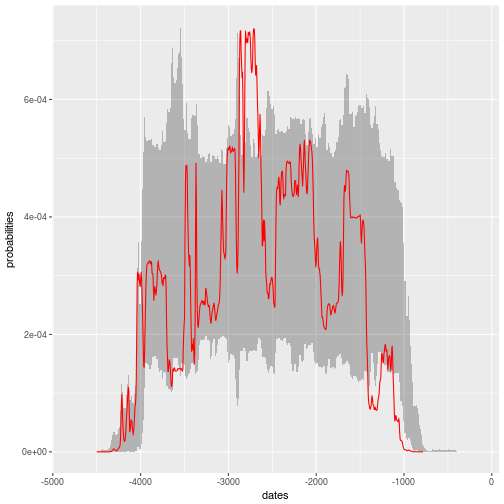
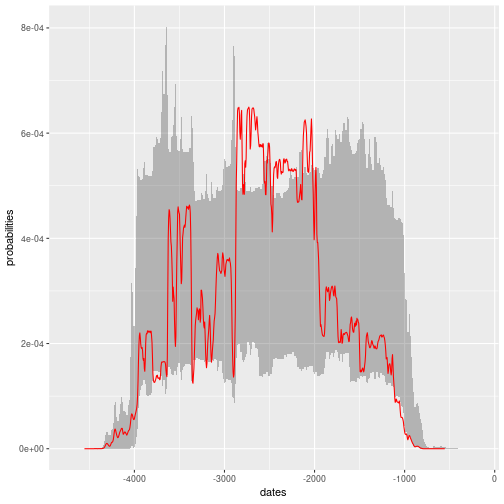
fixed date, increase n of sumsims, some reformating

diff --git a/presentation/index.html b/presentation/index.html
@@ -15,7 +15,7 @@ class: center, middle, inverse, title-slide
 # creating reproducible sum calibrations for archaeological demographic assessments
 ## the R package oxcAAR
 ### Nicole Grunert - Martin Hinz - Clemens Schmid
-### 2016/12/12 (updated: 2018-08-31)
+### 2018/09/06
 
 ---
 
@@ -361,7 +361,7 @@ oxcalSimulate(-3400, 25, "SimDate_1") %&gt;% plot()
 oxcalSumSim(
   timeframe_begin = -4000, # From when
   timeframe_end = -3000, # To when
-  n = 50, # Number of dates
+  n = 500, # Number of dates
   stds = 35, # Standard deviation of dates (can also be a vector of length n)
   date_distribution = "uniform" # random uniform; alternatively: equidist for equidistant dates
 ) %&gt;% plot()
@@ -404,7 +404,14 @@ sim_result &lt;- my_bp_dates %&gt;%
       date_distribution = "uniform"
     )$raw_probabilities
   )
+```
 
+```
+## Warning: 'broom::bootstrap' is deprecated.
+## See help("Deprecated")
+```
+
+```r
 alpha = .05
 
 envelope &lt;- sim_result %&gt;%
@@ -454,10 +461,8 @@ https://cran.r-project.org/web/packages/oxcAAR/index.html
 https://github.com/ISAAKiel/oxcAAR
 
 &lt;br&gt;
-&lt;br&gt;
 
 .pull-left[### Thats all, folks!]
-
 
 You find this presentation at:
 
